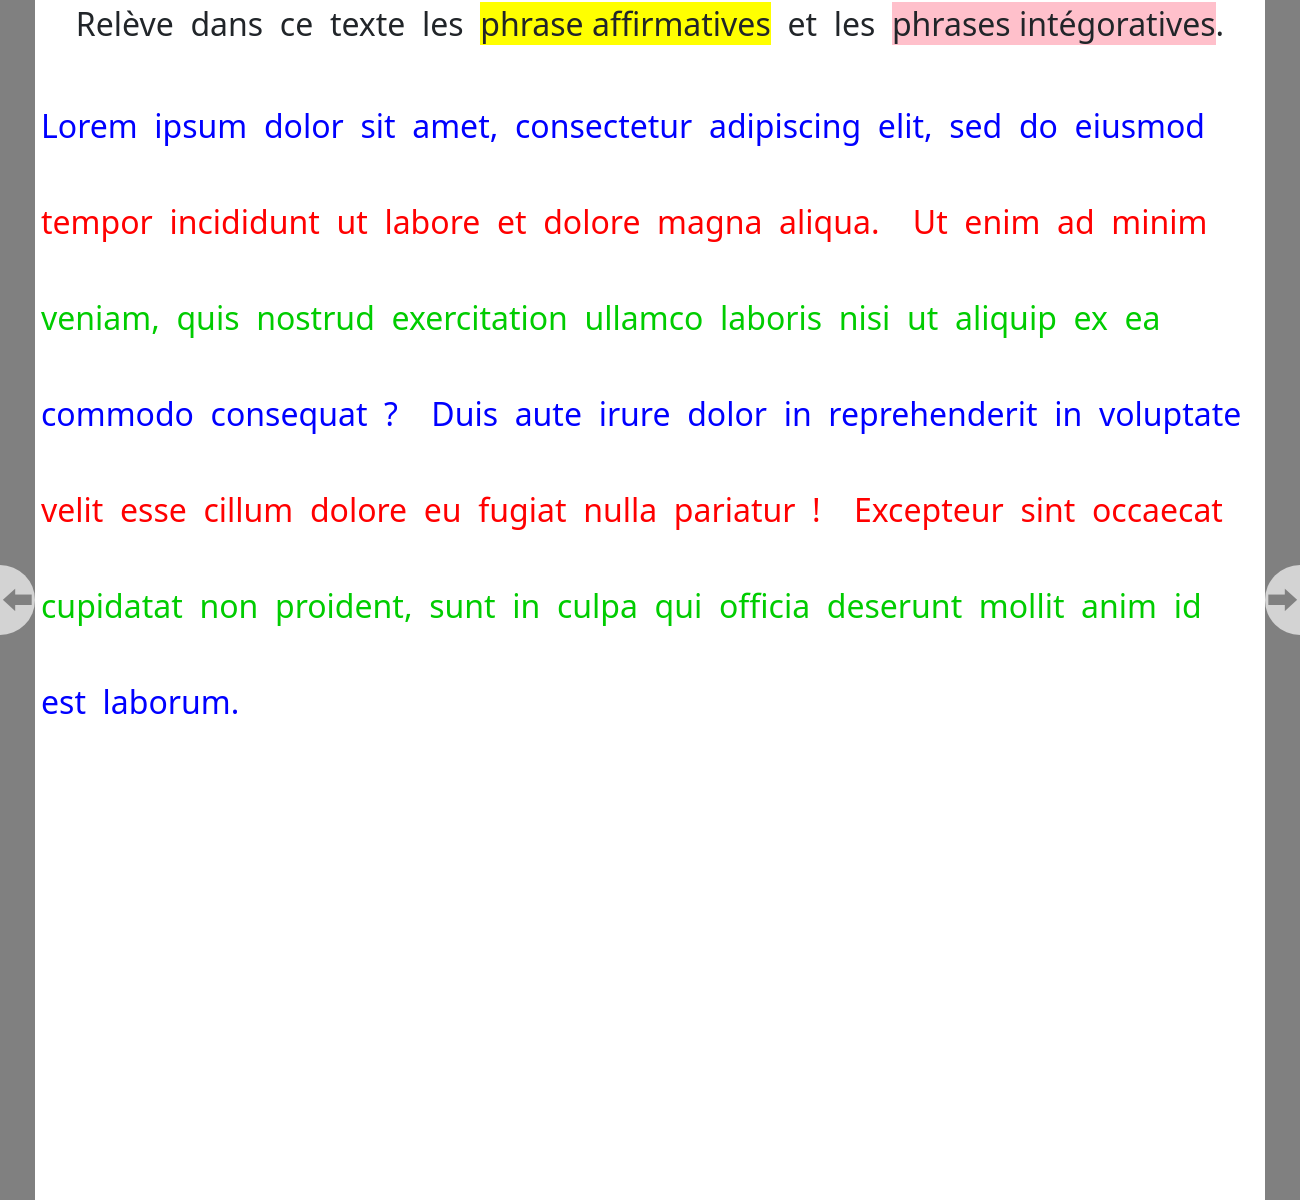
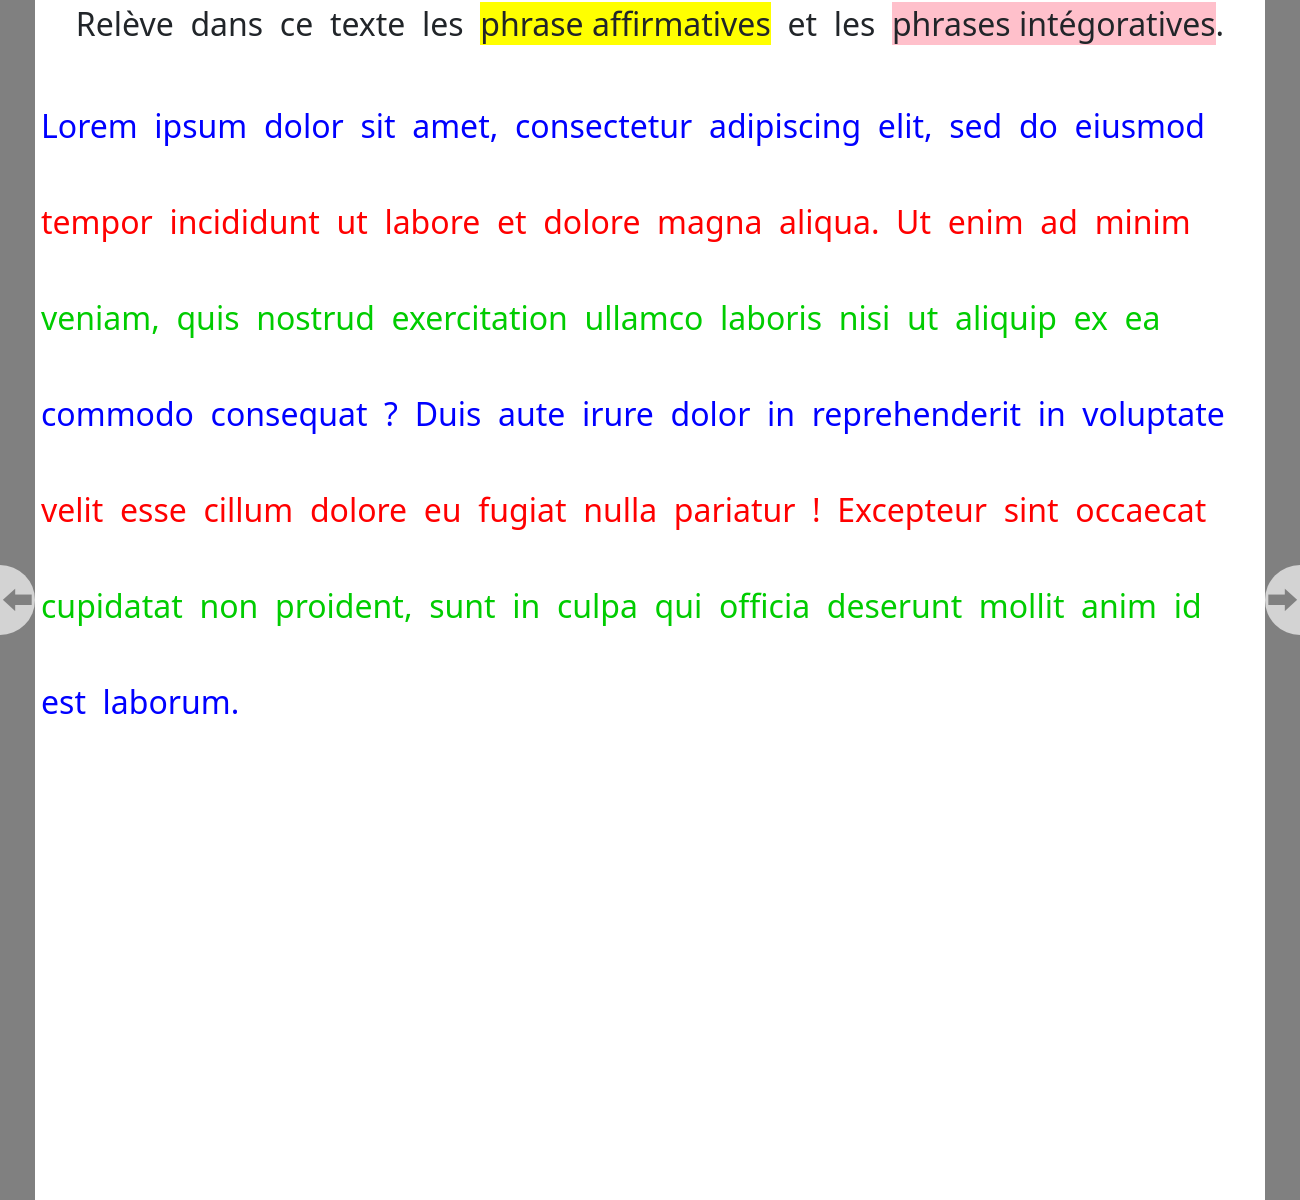
Remove unwanted whitespace at the start of "sentence" items

Changed region(s): [[0.3077, 0.3392, 0.9538, 0.37], [0.7077, 0.1542, 0.9231, 0.2158], [0.6462, 0.4008, 0.9538, 0.4317]]

diff --git a/backend/gabby/adaptation.py b/backend/gabby/adaptation.py
@@ -215,6 +215,8 @@ class _Adapter:
                     yield renderable.Whitespace()
                 is_first_sentence = False
                 contents = list(self.adapt_wording_sentence(sentence_deltas, sentence_placeholders))
+                while contents[0].type == "whitespace":
+                    contents.pop(0)
                 if self.items_are_selectable:
                     yield renderable.Selectable(contents=contents, colors=self.colors_for_selectable_items, boxed=self.items_are_boxed)
                 elif self.items_are_boxed:
@@ -1731,7 +1733,6 @@ class ItemizedAdaptationTestCase(AdaptationTestCase):
                             r.Whitespace(),
                             r.Selectable(
                                 contents=[
-                                    r.Whitespace(),
                                     r.PlainText(text="Exclamative"),
                                     r.Whitespace(),
                                     r.PlainText(text="sentence"),
@@ -1743,7 +1744,6 @@ class ItemizedAdaptationTestCase(AdaptationTestCase):
                             r.Whitespace(),
                             r.Selectable(
                                 contents=[
-                                    r.Whitespace(),
                                     r.PlainText(text="Phrase"),
                                     r.Whitespace(),
                                     r.PlainText(text="exclamative"),
@@ -1756,7 +1756,6 @@ class ItemizedAdaptationTestCase(AdaptationTestCase):
                             r.Whitespace(),
                             r.Selectable(
                                 contents=[
-                                    r.Whitespace(),
                                     r.PlainText(text="Interrogative"),
                                     r.Whitespace(),
                                     r.PlainText(text="sentence"),
@@ -1768,7 +1767,6 @@ class ItemizedAdaptationTestCase(AdaptationTestCase):
                             r.Whitespace(),
                             r.Selectable(
                                 contents=[
-                                    r.Whitespace(),
                                     r.PlainText(text="Phrase"),
                                     r.Whitespace(),
                                     r.PlainText(text="interrogative"),
@@ -1781,7 +1779,6 @@ class ItemizedAdaptationTestCase(AdaptationTestCase):
                             r.Whitespace(),
                             r.Selectable(
                                 contents=[
-                                    r.Whitespace(),
                                     r.PlainText(text="Suspens"),
                                     r.PlainText(text="..."),
                                 ],
